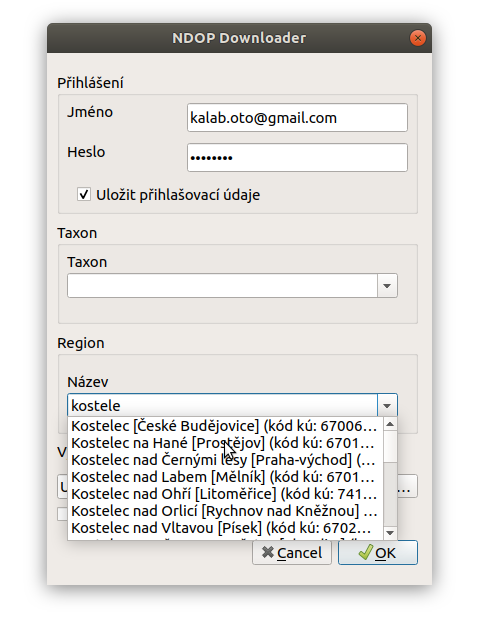
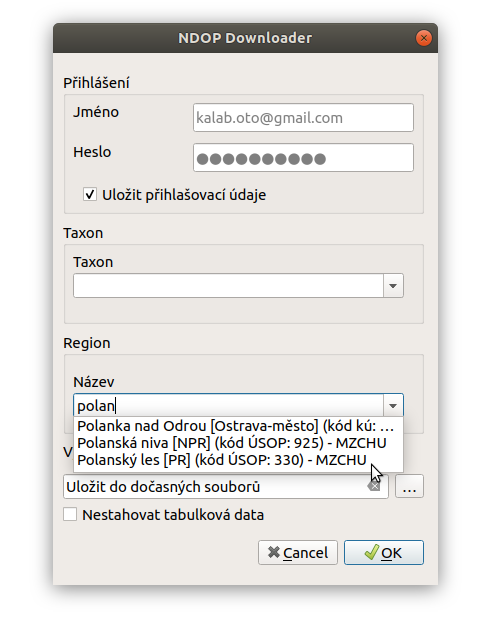
update:readme

Changed region(s): [[0.0881, 0.0306, 0.9392, 0.9485], [0.3522, 0.0306, 0.6457, 0.0918]]

diff --git a/README.md b/README.md
@@ -3,7 +3,7 @@
 NDOP Downloader je aplikace, která slouží ke stahování nálezů z Nálezové
 Databáze Agentury ochrany přírody a krajiny ČR ([AOPK NDOP](https://portal.nature.cz/nd/))
 . Aplikace je dostupná ve dvou formách, jako **QGIS zásuvný modul** jehož
-základ tvoří samostatný **Python moduls** s nástrojem příkazové řádky.
+základ tvoří samostatný Python modul s **nástrojem příkazové řádky**.
 
 NDOP Downloader pouze zprostředkovává přístup k datům. Veškeré informace
 o datech - fungování databáze, licenční podmínky, citační pravidla týkající
@@ -28,7 +28,7 @@ jako `Oddělený text` a na základě souřadnic z tabulky se zobrazí jako
 bodová vrstva. Tato data obsahují body a centroidy většiny polygonů a
 linií.
 
-![](static/images/dialog.png)
+![](static/images/main.png)
 
 ### Instalace a Spouštění
 
@@ -53,7 +53,7 @@ a pro rychlé spuštění se objeví ikonka v liště.
 
 ### Popis rozhraní
 
-    obrázek okna
+![](static/images/dialog.png)
 
 
 #### Přihlášení
@@ -71,7 +71,7 @@ spuštění QGIS je bude potřeba zadat znovu.
 Druh lze vybrat pomocí rolovací nabídky, nebo vepsáním názvu s funkcí
 našeptávače. Lze zadávat česká i latinská jména.
 
-    gif?
+![](static/images/filter_taxon.gif)   
 
 #### Region
 
@@ -79,7 +79,7 @@ Obdobně jako u taxonu. V případě že položka zůstane nevyplněná, získá
 data z clého území ČR. Naopak, pokud vybyreme území regionu a necháme
 prázdné políčko taxonu, získáme data všech taxonů ve vybraném regionu.
 
-![](static/images/filter_taxon.gif)
+![](static/images/filter_region.png)
 
 #### Výstupní složka
 
@@ -91,34 +91,39 @@ stahovat tabulková data zaškrtněte možnost `Nestahovat tabulková data`.
 ### Průběh stahování
 
 Po potvrzení tlačítkem `Ok` se okno zavře a spustí se filtrace a
-stahování. QGIS během stahování **nelze používat**. Stejně jako při
-použití oficiální webové aplikace, stahování může trvat několik minut v
-závislosti na počtu záznamů, stažení tabulkových dat atd.
+stahování. QGIS během stahování **nelze v současné době používat**.
+Stejně jako při použití oficiální webové aplikace, stahování může trvat
+několik minut, v závislosti na počtu záznamů, stažení tabulkových dat atd.
 
-    obr
+![](static/images/message.png)
 
 V informačním panelu v horní části obrazovky uvidíte informace o průběhu
 stahování. Při stahování se také vypíše počet záznamů a hrubý odhad doby
 trvání konkrétního kroku. Po úspěšném stažení se objeví zelený panel s
 odkazem na složku kam byla data stažena.
 
-    obr
+![](static/images/result.png)
 
-### Plánované funkce
+### Plánované funkce - zpětná vazba
 
-- automatické vytvoření relace tabulkových dat a lokalizací (1:n)
-- výběr na základě období a sezóny
+Výběr plánovaných funkcí:
+
 - zadání oblasti tažením a použítím polygonu z vrstvy
-- další parametry - zdroje dat
-- možnost zadání více taxonů (např. pomocí seznamu)
+- přidání filtru druhové ochrany
+- automatické vytvoření relace tabulkových dat a lokalizací (1:n)
 
+seznam aktuálně plánovaných funkcí [zde](https://github.com/OpenGeoLabs/qgis-ndop-downloader/issues?q=is%3Aopen+is%3Aissue+label%3Aenhancement) 
 
-Pro připomínky, nápady a hlášení chyb můžete použít [issues projektu na GitHub ](https://github.com/OpenGeoLabs/qgis-ndop-downloader/issues), nebo napsat na
-mail ...
+Pro připomínky, nápady a hlášení chyb můžete napsat email nebo použít [issues projektu na GitHub ](https://github.com/OpenGeoLabs/qgis-ndop-downloader/issues).
 
-## Python modul ndop.py
+## Nástroj příkazové řádky ndop
 
-Pro dávkové zpracování lze využít python modul a nástroj příkazové řádky
+Pro dávkové zpracování lze využít Python nástroj příkazové řádky **ndop**
+
+    python3 bin/ndop -h
+    
+    python3 bin/ndop --taxon "lynx lynx"
+
 
 ...
 ## Licence
